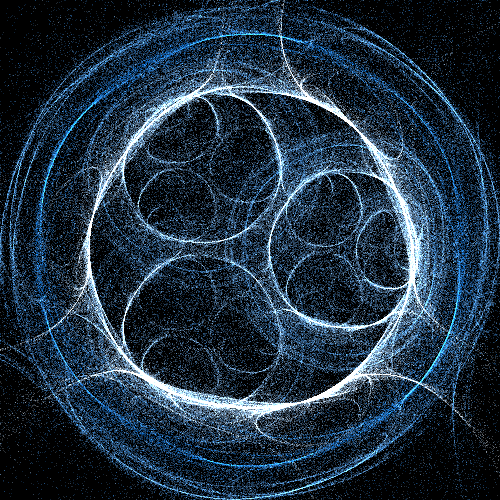
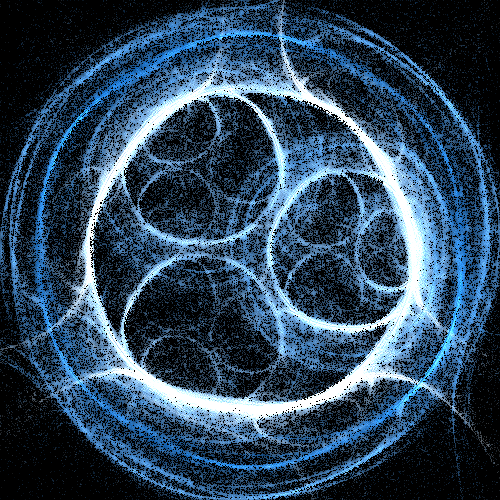
Started working on filtering

diff --git a/flame_fractal.py b/flame_fractal.py
@@ -89,6 +89,7 @@ class FlameFractal:
     #functionColors = [[0,120,255],[0, 255, 120], [255,120,0]]
 
     points = []
+    adjustedpoints = []
 
     # NOTE: use ff. prefix to all functions added to generator commands (for
     # flame fractal) since there will probably be a lot with all the variations
@@ -155,6 +156,16 @@ class FlameFractal:
         self.points[y][x][2] += color[2]
         self.points[y][x][3] += 1
 
+    def adjustpoint(self, x, y, r, g, b, factor):
+        if y < len(self.adjustedpoints) and y >= 0 and x < len(self.adjustedpoints[y]) and x >= 0:
+            self.adjustedpoints[y][x][0] += r*factor
+            self.adjustedpoints[y][x][1] += g*factor
+            self.adjustedpoints[y][x][2] += b*factor
+
+    # maps points onto adjustedpoints
+    def filterpoint(self, x, y):
+        pass
+
     def render(self, gamma=1.0, brightness=1.0):
         print("Rendering... (gamma = " + str(gamma) + ")") 
         #for point in self.points:
@@ -180,12 +191,42 @@ class FlameFractal:
 
         print("Second pass...")
         
+
+        self.adjustedpoints = self.points[:]
         for y in range(0, len(self.points)):
             for x in range(0, len(self.points[y])):
                 count = self.points[y][x][3]
                 r = self.points[y][x][0]
                 g = self.points[y][x][1]
                 b = self.points[y][x][2]
+
+                self.adjustpoint(x, y - 2, r, g, b, .1)
+                self.adjustpoint(x, y + 2, r, g, b, .1)
+                self.adjustpoint(x + 2, y, r, g, b, .1)
+                self.adjustpoint(x - 2, y, r, g, b, .1)
+                self.adjustpoint(x, y - 1, r, g, b, .2)
+                self.adjustpoint(x, y + 1, r, g, b, .2)
+                self.adjustpoint(x + 1, y, r, g, b, .2)
+                self.adjustpoint(x - 1, y, r, g, b, .2)
+                #self.adjustpoint(x, y, r, g, b, .7)
+
+                self.adjustedpoints[y][x][0] *= .7
+                self.adjustedpoints[y][x][1] *= .7
+                self.adjustedpoints[y][x][2] *= .7
+
+        print("Third pass...")
+                
+        
+        for y in range(0, len(self.points)):
+            for x in range(0, len(self.points[y])):
+                count = self.points[y][x][3]
+                #r = self.points[y][x][0]
+                #g = self.points[y][x][1]
+                #b = self.points[y][x][2]
+                
+                r = self.adjustedpoints[y][x][0]
+                g = self.adjustedpoints[y][x][1]
+                b = self.adjustedpoints[y][x][2]
 
                 
                 #print(str(x) + "," + str(y) + " - " + str(count))
